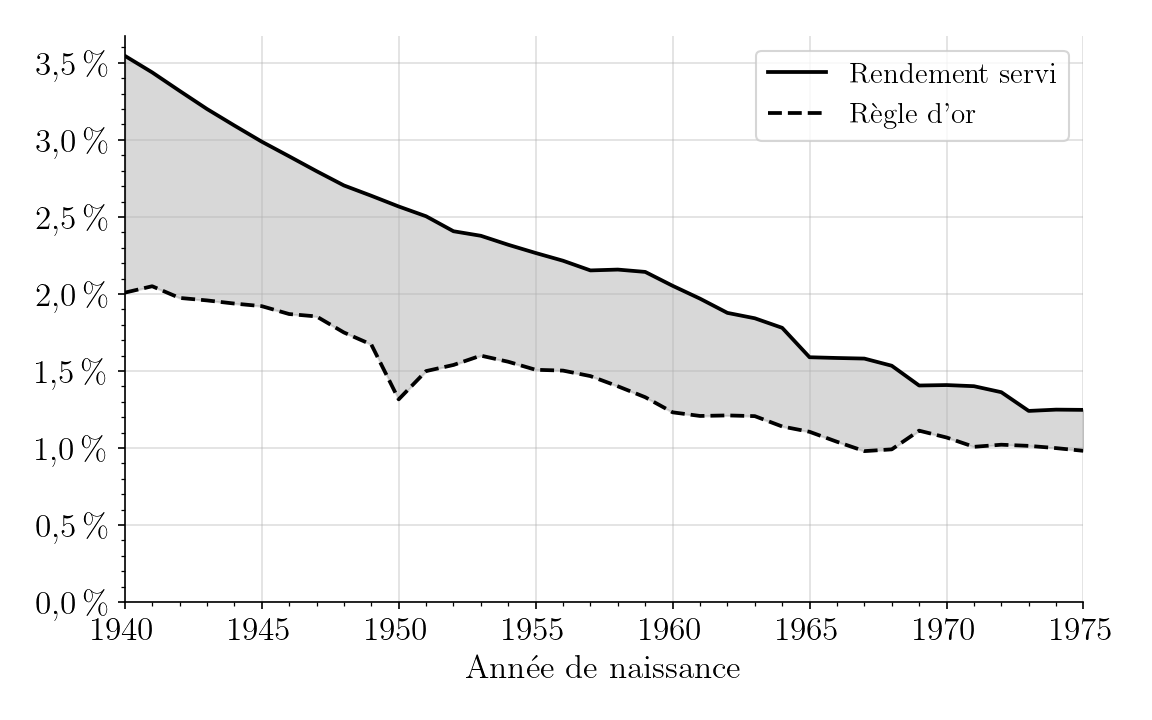
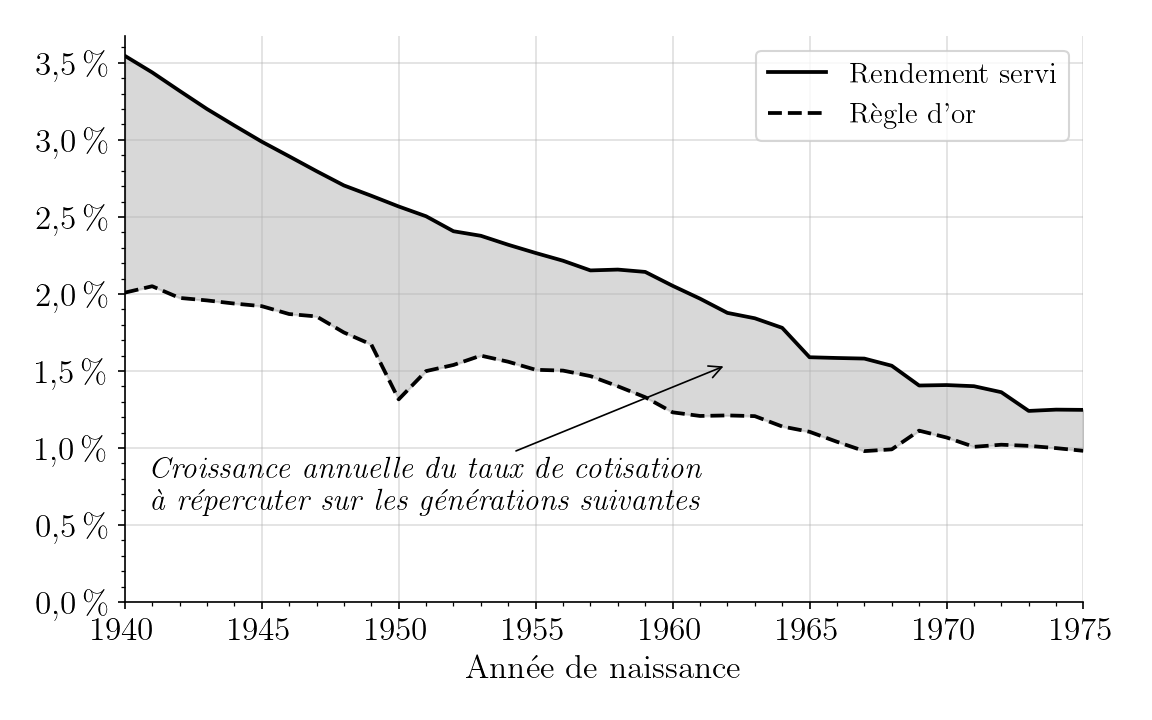
Annotate TRI figure with arrow labeling the shaded band
Add an italic caption explaining the band as the annual growth of the
contribution rate to pass on to younger generations, with a thin black
arrow pointing into the middle of the band.

diff --git a/TRI/fig_tri.py b/TRI/fig_tri.py
@@ -45,6 +45,15 @@ ax.minorticks_on()
 
 ax.legend(loc="upper right", frameon=True, fontsize=14)
 
+ax.annotate(
+    r"\textit{Croissance annuelle du taux de cotisation}" "\n"
+    r"\textit{\`a r\'epercuter sur les g\'en\'erations suivantes}",
+    xy=(1962, 0.0154), xycoords='data',
+    xytext=(1941, 0.0075), textcoords='data',
+    fontsize=15, ha='left', va='center',
+    arrowprops=dict(arrowstyle='->', color='black', lw=0.8),
+)
+
 plt.tight_layout()
 plt.savefig(DATA_DIR / "Fig_A2_11.pdf")
 plt.savefig(DATA_DIR / "Fig_A2_11.png", dpi=150)
